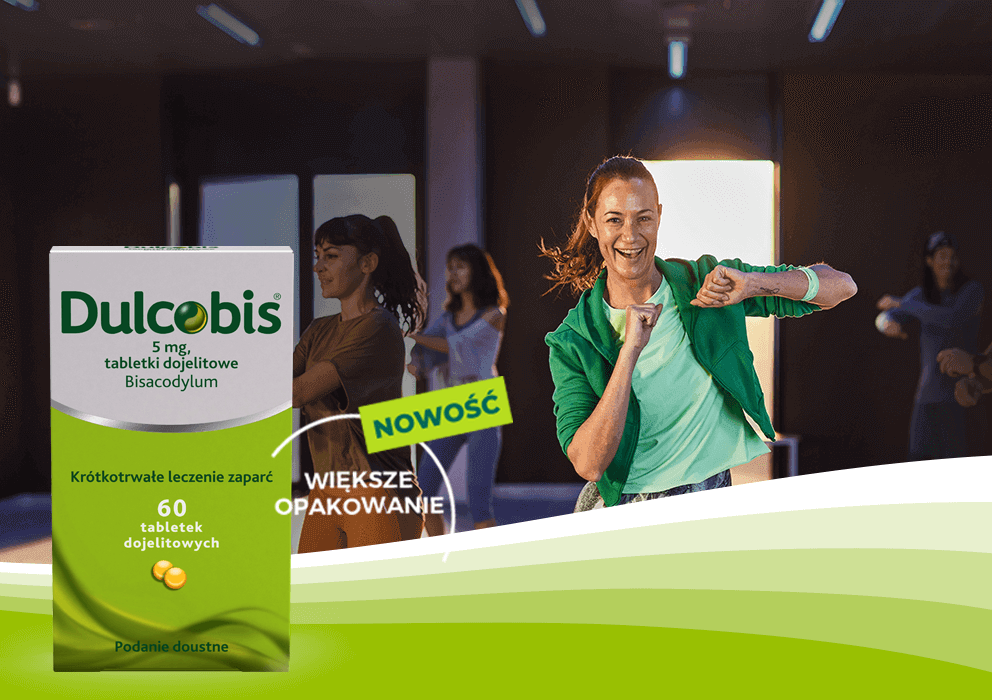
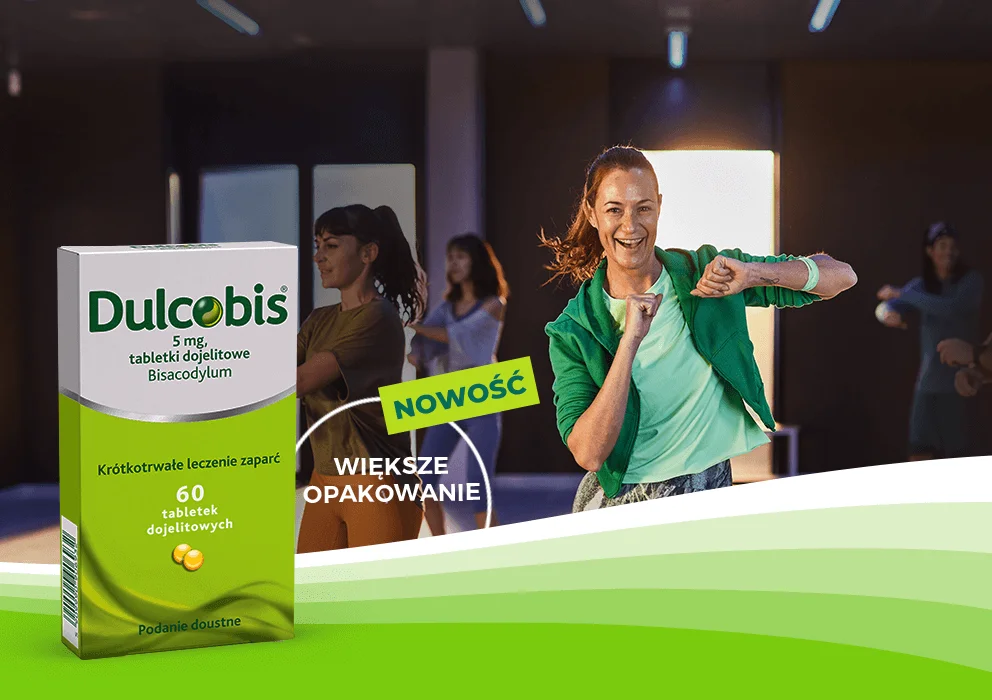
feat: change kv images, add fixes for styles and html

diff --git a/index.html b/index.html
@@ -110,9 +110,9 @@
         overflow: hidden;
       }
       #es-rc #es-rc-content .es-kv__pills {
-        top: 75%;
+        top: 73%;
         left: 55%;
-        width: 40%;
+        width: 53%;
       }
       #es-rc #es-rc-content .es-mobile-break {
         display: block;
@@ -155,8 +155,8 @@
           display: none;
         }
         #es-rc #es-rc-content .es-kv__pills {
-        top: 65%;
-        left: 55%;
+          top: 60%;
+          left: 54%;
         }
       }
       #es-rc #es-rc-content .es-kv__desktop {
@@ -250,6 +250,7 @@
         color: #000;
         max-width: 210px;
         padding-top: 12px;
+        line-height: 1.2;
       }
       #es-rc #es-rc-content .es-description {
         background: rgb(4, 94, 72);
@@ -264,6 +265,7 @@
         color: #fff;
         width: 95%;
         margin: auto;
+        line-height: 1.2;
       }
       #es-rc #es-rc-content .es-description__subtitle {
         color: #fff;
@@ -287,6 +289,7 @@
         color: #a1bd39;
         font-weight: 700;
         padding-top: 5px;
+        line-height: 1.2;
       }
       #es-rc #es-rc-content .es-description__bullet {
         margin-right: 5px;
@@ -394,6 +397,8 @@
       #es-rc #es-rc-content .es-dose__text {
         color: #000;
         text-align: center;
+        line-height: 1.2;
+        font-size: clamp(12px, 9.722px + 0.6329vw, 16px) !important;
       }
       #es-rc #es-rc-content .es-dose__subtitleInBox {
         font-weight: 700;
@@ -401,10 +406,12 @@
         margin-bottom: 0;
         text-align: center;
         color: #fff;
+        line-height: 1.2;
       }
       #es-rc #es-rc-content .es-dose__textUnderBox {
         font-size: clamp(12px, 9.722px + 0.6329vw, 16px);
         color: #fff;
+        line-height: 1.2;
       }
       #es-rc #es-rc-content .es-dose__bullet {
         width: 45px;
@@ -507,6 +514,7 @@
         text-transform: uppercase;
         font-size: 14px;
         font-weight: 500;
+        line-height: 1.2;
       }
       #es-rc #es-rc-content .es-cross__head {
         font-size: calc(1.67 * clamp(12px, 9.722px + 0.6329vw, 16px));
@@ -534,6 +542,7 @@
         margin: 0;
         border-color: transparent;
         font-size: clamp(12px, 9.722px + 0.6329vw, 16px);
+        border: none !important;
       }
       #es-rc #es-rc-content .es-cross__table--left tbody {
         border: 3px solid white;
@@ -567,6 +576,7 @@
       }
       #es-rc #es-rc-content .es-cross td {
         vertical-align: middle;
+        text-align: center;
         border: none;
         min-width: 150px;
         color: #000;
@@ -612,11 +622,13 @@
         color: #00604d;
         text-transform: uppercase;
         margin-bottom: 0;
+        line-height: 1.2;
       }
       #es-rc #es-rc-content .es-articles__text1 {
         font-size: clamp(12px, 9.722px + 0.6329vw, 16px);
         color: #005649;
         margin-bottom: 0;
+        line-height: 1.2;
       }
       /*@media (min-width: 992px) {
         #es-rc #es-rc-content .es-articles__text1 {
@@ -655,6 +667,7 @@
         background-color: #FFF;
         color: #00604d;
         outline: 3px solid #00604d;
+        cursor: pointer;
       }
       @media (min-width: 992px) {
         #es-rc #es-rc-content .es-articles__button {
@@ -1223,12 +1236,12 @@
               </div>
             </div>
             <div class="row d-flex flex-nowrap align-items-center px-2">
-              <p class="col-5 col-sm-4 p-0 m-0 text-left es-footer__text es-footer__text--1">MAT-PL-2301621-1.0-07.2023
+              <p class="col-5 col-sm-4 p-0 m-0 text-left es-footer__text es-footer__text--1">MAT-PL-2301621-2.0-10.2023
               </p>
-              <div class="col-1 col-sm-5">
+              <div class="col-3 col-sm-5">
 
               </div>
-              <div class="col-5 col-sm-3 text-right">
+              <div class="col-4 col-sm-3 text-right">
                 <img alt="Logo Sanofi" class="img-fluid p-1" src="./images/logo.webp">
               </div>
             </div>
